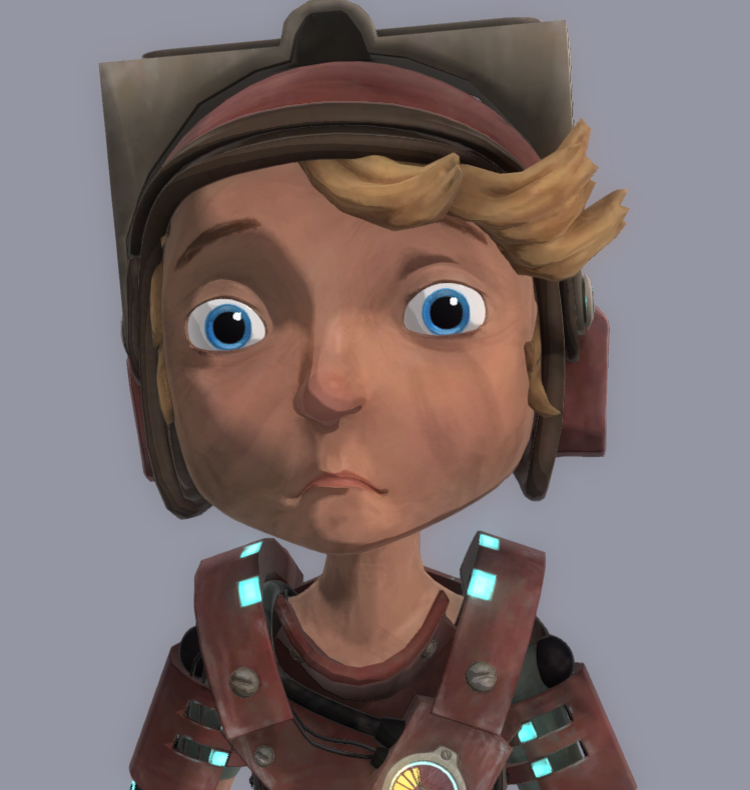
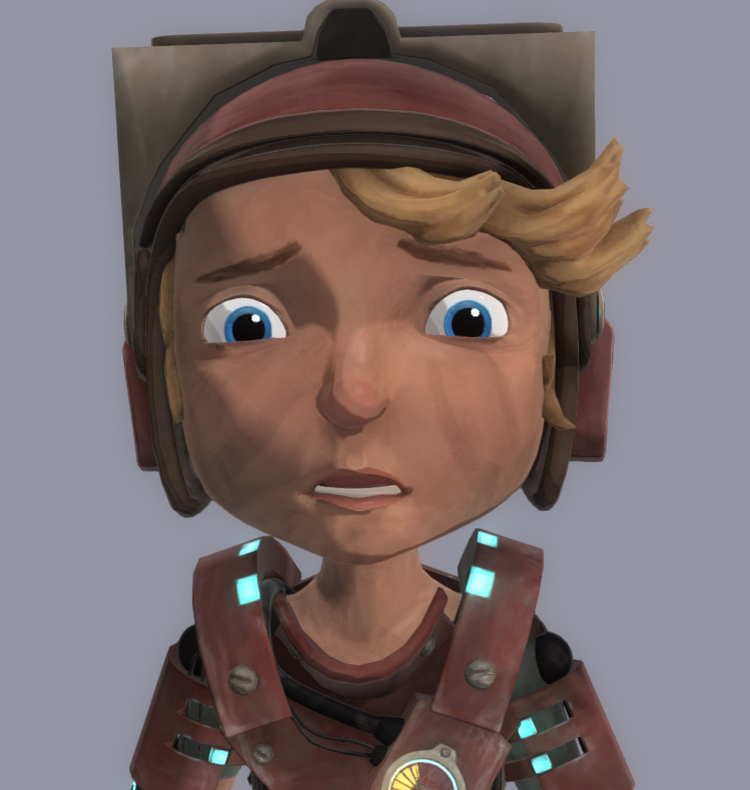
changes

diff --git a/surveys/templates/surveys/home.html b/surveys/templates/surveys/home.html
@@ -206,43 +206,66 @@
             
             var emotionalTable = [
                 ['{% static "surveys/TEMP.jpg" %}', '{% static "surveys/TEMP.jpg" %}', '{% static "surveys/distress2.jpg" %}', '{% static "surveys/TEMP.jpg" %}', '{% static "surveys/TEMP.jpg" %}'],
-                ['{% static "surveys/TEMP.jpg" %}', '{% static "surveys/TEMP.jpg" %}', '{% static "surveys/sad1.jpg" %}', '{% static "surveys/TEMP.jpg" %}', '{% static "surveys/TEMP.jpg" %}'],
-                ['{% static "surveys/fear2.jpg" %}', '{% static "surveys/fear1.jpg" %}', '{% static "surveys/hope1.jpg" %}', '{% static "surveys/hope3.jpg" %}', '{% static "surveys/hope2.jpg" %}'],
+                ['{% static "surveys/TEMP.jpg" %}', '{% static "surveys/TEMP.jpg" %}', '{% static "surveys/distress1.jpg" %}', '{% static "surveys/TEMP.jpg" %}', '{% static "surveys/TEMP.jpg" %}'],
+                ['{% static "surveys/fear2.jpg" %}', '{% static "surveys/fear1.jpg" %}', '{% static "surveys/normal1.jpg" %}', '{% static "surveys/hope2.jpg" %}', '{% static "surveys/hope3.jpg" %}'],
                 ['{% static "surveys/TEMP.jpg" %}', '{% static "surveys/TEMP.jpg" %}', '{% static "surveys/happy1.jpg" %}', '{% static "surveys/TEMP.jpg" %}', '{% static "surveys/TEMP.jpg" %}'],
                 ['{% static "surveys/TEMP.jpg" %}', '{% static "surveys/TEMP.jpg" %}', '{% static "surveys/happy3.jpg" %}', '{% static "surveys/TEMP.jpg" %}'], ['{% static "surveys/TEMP.jpg" %}']
             ]
 
             console.log("joy: " + joyEmo + "hopeEmo: " + hopeEmo + "sorrow: " + sorrowEmo + "fear: " + fearEmo);
 
-            var x = 0;
-            var y = 0;
-            var deltaX = hopeEmo - fearEmo;
-            var deltaY = joyEmo - sorrowEmo;
-
-            if(deltaX > 30){
-                x = 4;
-            }else if (deltaX > 0){
-                x = 3;
-            } else if (deltaX == 0){
-                x = 2;
-            }else if (deltaX > -30){
-                x = 1
-            }else{
-                x = 0;
+            var x = 2;
+            var y = 2;
+            //var deltaX = hopeEmo - fearEmo;
+            //var deltaY = joyEmo - sorrowEmo;
+            if ((joyEmo + hopeEmo) > (sorrowEmo + fearEmo)) {
+                if (joyEmo > hopeEmo){
+                if (joyEmo > 0) {
+                    x = 3 
+                    y = 2
+                }
+                else if (joyEmo > 20) {
+                    x = 4
+                    y = 2
+                }
+            }
+            else {
+                if (hopeEmo > 0) {
+                    x = 2
+                    y = 3
+                }
+                else if (hope > 20) {
+                    x = 2
+                    y = 4
+                }
+            }
+            }
+            else {
+                if (sorrowEmo > fearEmo) {
+                    if (sorrowEmo > 0) {
+                        x = 1
+                        y = 2
+                    }
+                    else if (sorrowEmo > 20) {
+                        x = 0
+                        y = 2
+                    }
+                }
+                else {
+                    if (fearEmo > 0) {
+                        x = 2
+                        y = 1
+                    }
+                    else if (fearEmo > 20) {
+                        x = 2 
+                        y = 0
+                    }
+                }
             }
 
-            if(deltaY > 30){
-                y = 4;
-            }else if (deltaY > 0){
-                y = 3;
-            } else if (deltaY == 0){
-                y = 2;
-            }else if (deltaY > -30){
-                y = 1
-            }else{
-                y = 0;
-            }
-            console.log("deltaX:" + deltaX + "deltaY" + deltaY);
+
+          
+           // console.log("deltaX:" + deltaX + "deltaY" + deltaY);
             console.log("x: " + x + " y: " + y + "emTab[x,y]: " + emotionalTable[x][y]);
             return emotionalTable[x][y];
         }

diff --git a/surveys/views.py b/surveys/views.py
@@ -171,6 +171,7 @@ def acore_next_step(request):
     if gameStatus == 'initial':
         print 'Game status: ' , gameStatus
         for indx, person in enumerate(line):
+            person.halveEmotion()
             if indx != 0:
                 person.newResourceVector = [person.resourceVector[0]-0.05, person.resourceVector[1]-0.4, line[indx-1].resourceVector[2]]
                 print 'Action cost: ' , str(person.actionCost())
@@ -185,6 +186,7 @@ def acore_next_step(request):
     elif gameStatus == 'protest?':
         print 'Game status: ' , gameStatus
         for indx, person in enumerate(line):
+            person.halveEmotion()
             if indx < (len(line)-1):
                 person.decideProtest(beingPassed = (line[indx+1].nextAction == "Pass"))
 
@@ -204,6 +206,7 @@ def acore_next_step(request):
     elif gameStatus == 'penultimate':
         print 'The game status is ' , gameStatus
         for indx, person in enumerate(line):
+            person.halveEmotion()
             if indx != 0:
                 if person.nextAction == 'Pass' and line[indx-1].nextAction == 'Protest':
                     if random() < 0.50:
@@ -219,7 +222,7 @@ def acore_next_step(request):
                     else:
                         person.nextAction = 'Pass_Fail'
                         person.newResourceVector = [1, 0.5, person.resourceVector[2]]
-                        person.computeEmotion(1)
+                    person.computeEmotion(1)
                 elif person.nextAction == 'Pass' and line[indx-1].nextAction == 'Wait':
                     if random() < 0.95:
                         print 'Not being protested'
@@ -232,7 +235,7 @@ def acore_next_step(request):
                     else:
                         person.nextAction = 'Pass_Fail'
                         person.newResourceVector = [1, 0.5, person.resourceVector[2]]
-                        person.computeEmotion(1)
+                    person.computeEmotion(1)
 
         for index, person in enumerate(line):
             if(person.getAction() == 'Pass_Success'):
@@ -245,8 +248,11 @@ def acore_next_step(request):
         print str(line[0].name) , 'gets the Occulus Rift'
         line.pop(0)
         for indx, person in enumerate(line):
+            person.halveEmotion()
             person.nextAction = 'Wait'
-            person.resourceVector[2] = 1.0/(indx+1)
+            person.newResourceVector = [person.resourceVector[0], person.resourceVector[1], 1.0/(indx+1)]
+            person.computeEmotion(1)
+            person.resourceVector = person.newResourceVector
 
         displayLine()
         gameStatus = 'initial'

diff --git a/surveys/npc.py b/surveys/npc.py
@@ -90,7 +90,6 @@ class NPC(object):
 				self.nextAction = 'Wait'
 
 	def computeEmotion(self, expectation):
-		self.emotion = [emo/2 for emo in  self.emotion]
 		for indx, resource in enumerate(self.resourceVector):
 			desire = (self.newResourceVector[indx] - resource)*self.resourceWeights[indx]
 			if (desire > 0) and (expectation == 1):
@@ -101,6 +100,9 @@ class NPC(object):
 				self.emotion[2] += desire           #The Sorrow Emotion
 			elif (desire < 0) and (expectation < 1):
 				self.emotion[3] += desire * expectation    #The Fear Emotion
+
+	def halveEmotion(self):
+		self.emotion = [emo/2 for emo in  self.emotion]
 
 
 class human(NPC):
